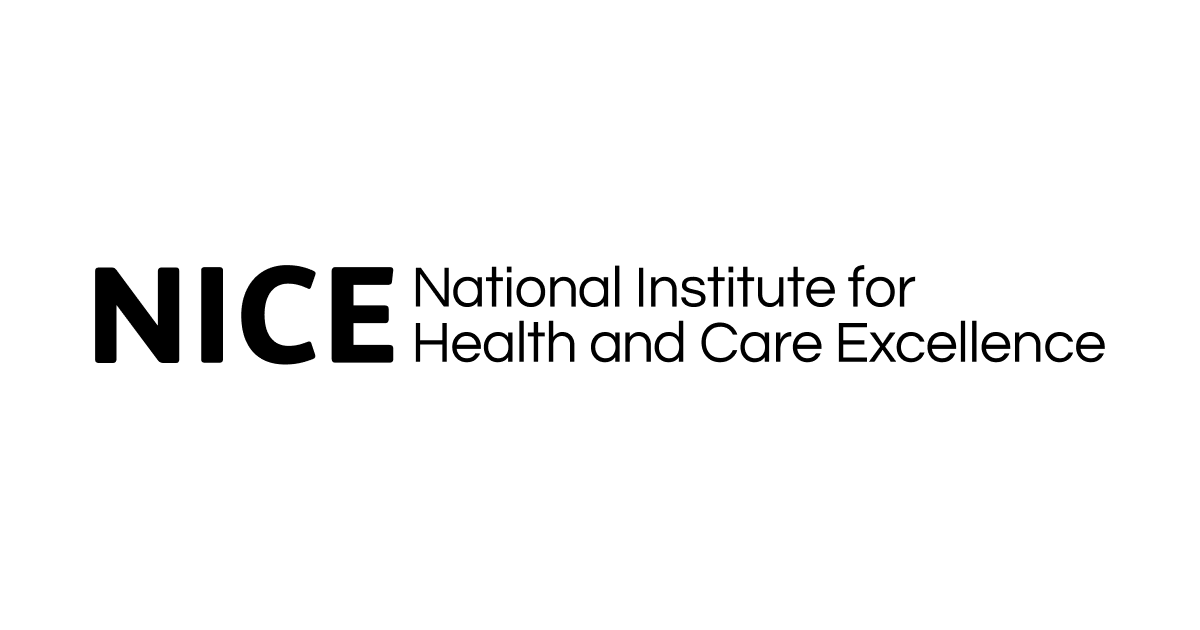
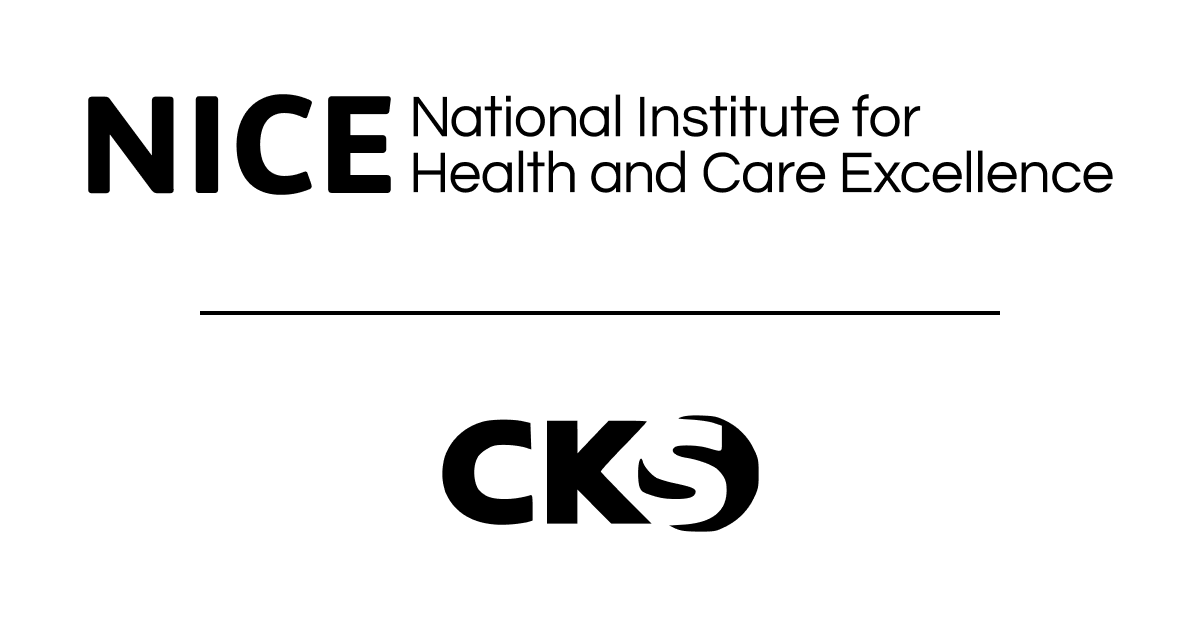
CKS-410 Add square twitter image

Changed region(s): [[0.0617, 0.4222, 0.925, 0.6032], [0.0617, 0.1508, 0.925, 0.3317], [0.37, 0.6635, 0.6475, 0.8444]]

diff --git a/gatsby/src/components/SEO/SEO.tsx b/gatsby/src/components/SEO/SEO.tsx
@@ -47,13 +47,15 @@ export const SEO: React.FC<SEOProps> = ({
 					property="og:title"
 					content={(title ? `${title} | ` : "") + "CKS | NICE"}
 				/>
-				<meta
-					property="og:image"
-					content="https://cks.nice.org.uk/open-graph-image.png"
-				/>
+				<meta property="og:image" content={`${siteUrl}/open-graph-image.png`} />
 				<meta property="og:image:width" content="1200" />
 				<meta property="og:image:height" content="630" />
 				<meta name="twitter:card" content="summary" />
+				<meta
+					name="twitter:image"
+					content={`${siteUrl}/twitter-summary-image.png`}
+				/>
+				<meta name="twitter:image:alt" content="NICE and CKS logos" />
 				<meta name="twitter:site" content="@NICEcomms" />
 				<meta name="twitter:creator" content="@NICEcomms" />
 				<meta name="theme-color" content="#004650" />
